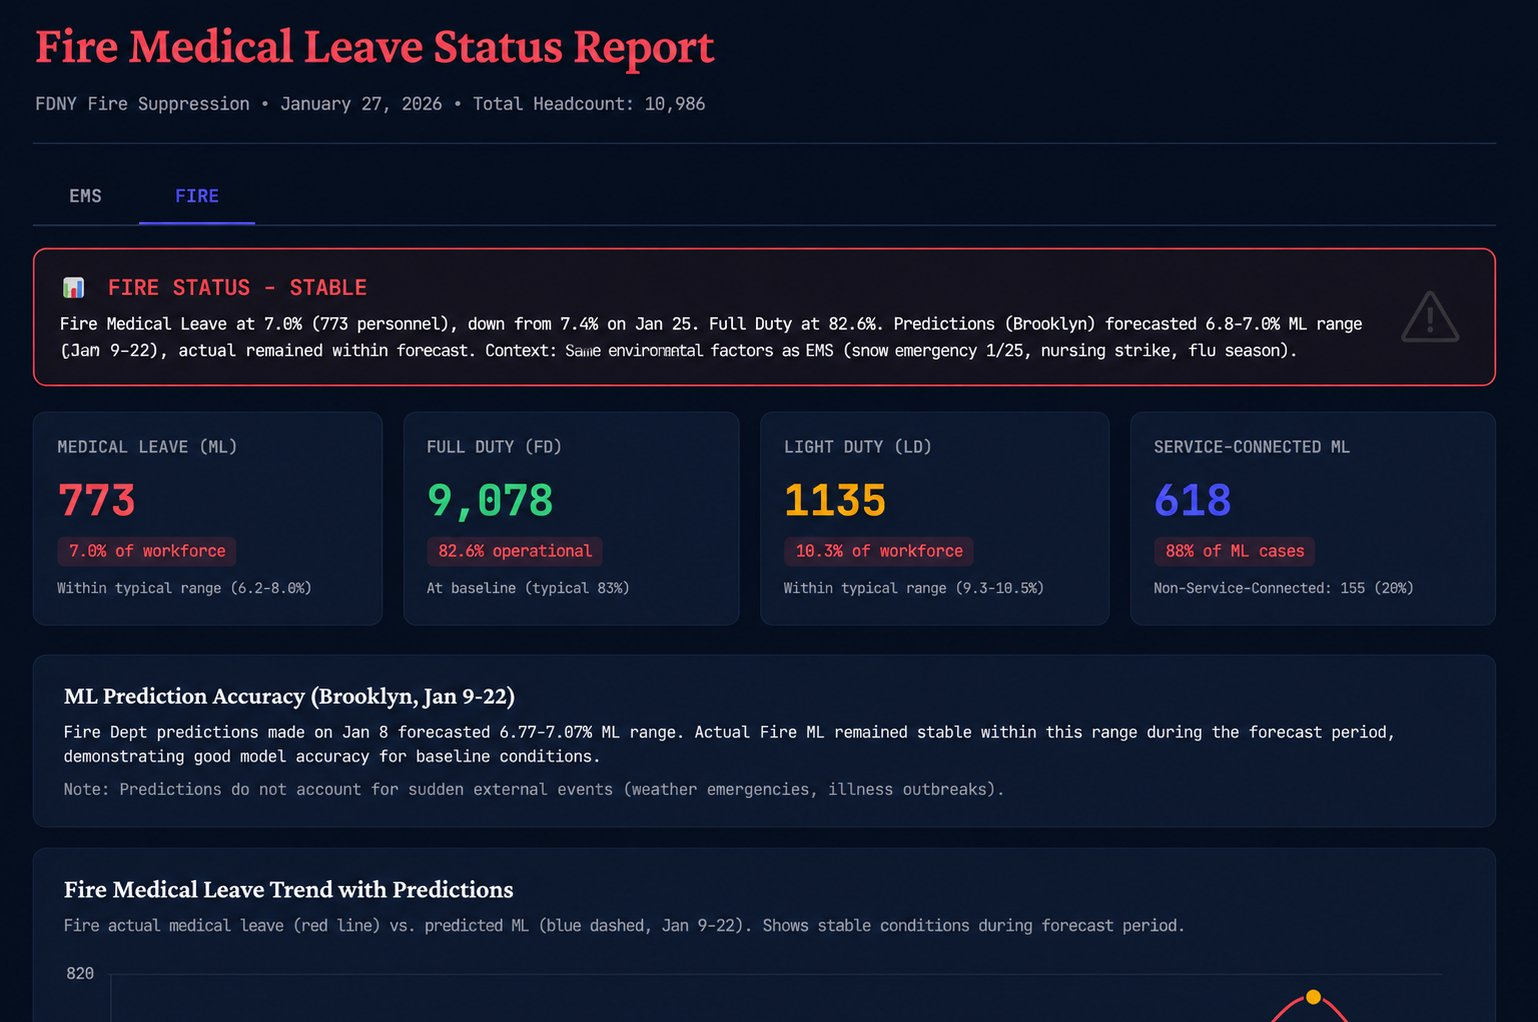
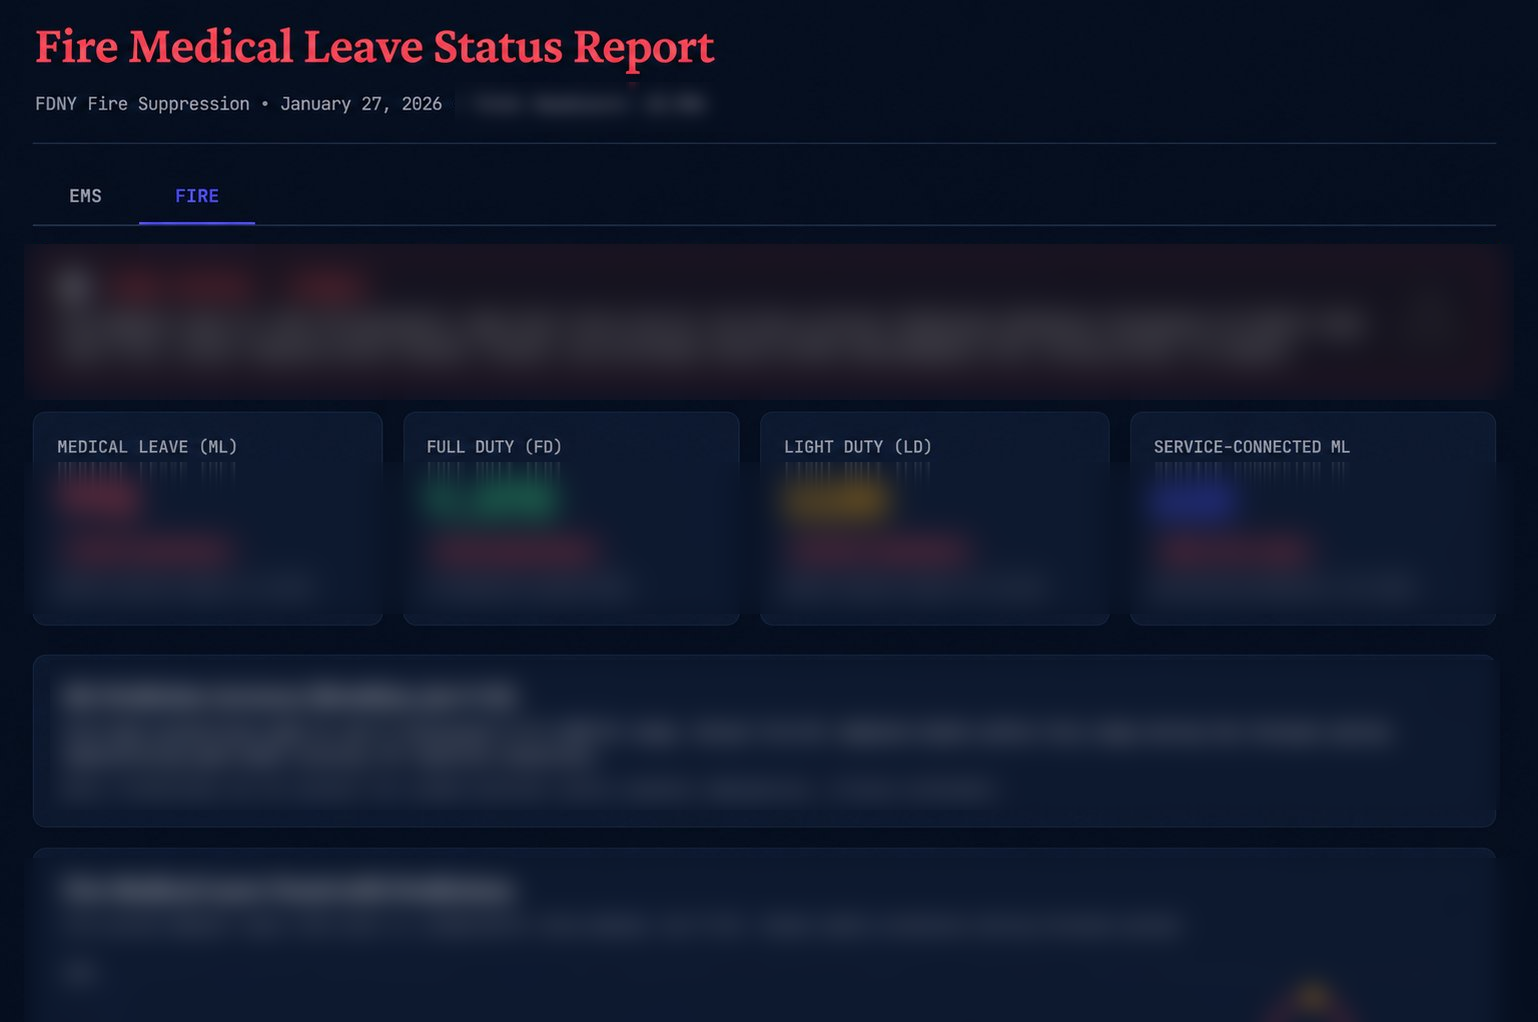
Redact FDNY operational data per customer republish condition
FDNY approved republishing the case study on the condition that their
data is blurred/redacted.

- governing-critical-data.png: blur all values in the Fire Medical Leave
  Status Report (headcount, ML/FD/LD/SC-ML counts + percentages, status
  box, prediction accuracy, trend chart). Report title + metric labels
  kept for legibility; every number is now unreadable.
- Constants: genericize exact internal figures — active personnel
  15,582 -> 15,000+ (2 places); drop the exact IT staff count.

diff --git a/src/constants/FdnyCustomer.constants.tsx b/src/constants/FdnyCustomer.constants.tsx
@@ -14,7 +14,7 @@ export const FDNY_CUSTOMER_HIGHLIGHTS = [
     },
     {
         id: 2,
-        count: '15,582',
+        count: '15,000+',
         description: "active Fire and EMS personnel schedules now analyzed through natural-language queries"
     },
     {
@@ -35,7 +35,7 @@ export const FDNY_CUSTOMER_CHALLENGES = [
     {
         image: '/assets/fdny-customer/governing-critical-data.png',
         title: 'Governing critical data without a data engineering team',
-        description: `FDNY's IT department of roughly 60 staff, including application developers, database developers, business analysts, and QA, has long excelled at building operational systems: a computer-aided dispatch platform central to NYC's 911 response, a mobile incident command application, and a custom electronic health records system tracking the duty status and medical leave of every active fire and EMS member. The team had no formal data engineering function, and no scalable way to document, govern, or surface the institutional knowledge locked inside three decades of Oracle data.`,
+        description: `FDNY's IT department, including application developers, database developers, business analysts, and QA, has long excelled at building operational systems: a computer-aided dispatch platform central to NYC's 911 response, a mobile incident command application, and a custom electronic health records system tracking the duty status and medical leave of every active fire and EMS member. The team had no formal data engineering function, and no scalable way to document, govern, or surface the institutional knowledge locked inside three decades of Oracle data.`,
         challenges: [
             {
                 header: 'Three decades of undocumented data',
@@ -92,7 +92,7 @@ export const FDNY_CUSTOMER_CHALLENGES = [
                 description: "Connected to Claude via the OpenMetadata MCP, FDNY's analytics team explores the department's data estate in natural language. The snowstorm staffing analysis, a query that would have previously required a developer, a two-to-three-week lead time, and custom SQL, completed in a single Claude session with no code written.",
             },
             {
-                header: 'Operational insight across 15,582 personnel records',
+                header: 'Operational insight across 15,000+ personnel records',
                 description: 'With duty status, medical leave, and scheduling data for all active fire and EMS members documented and accessible, FDNY can analyze workforce patterns in real time. Investigations that once required bespoke developer work, like understanding how a weather event affected staffing across two divisions, are now within reach of any analyst.',
             },
             {
